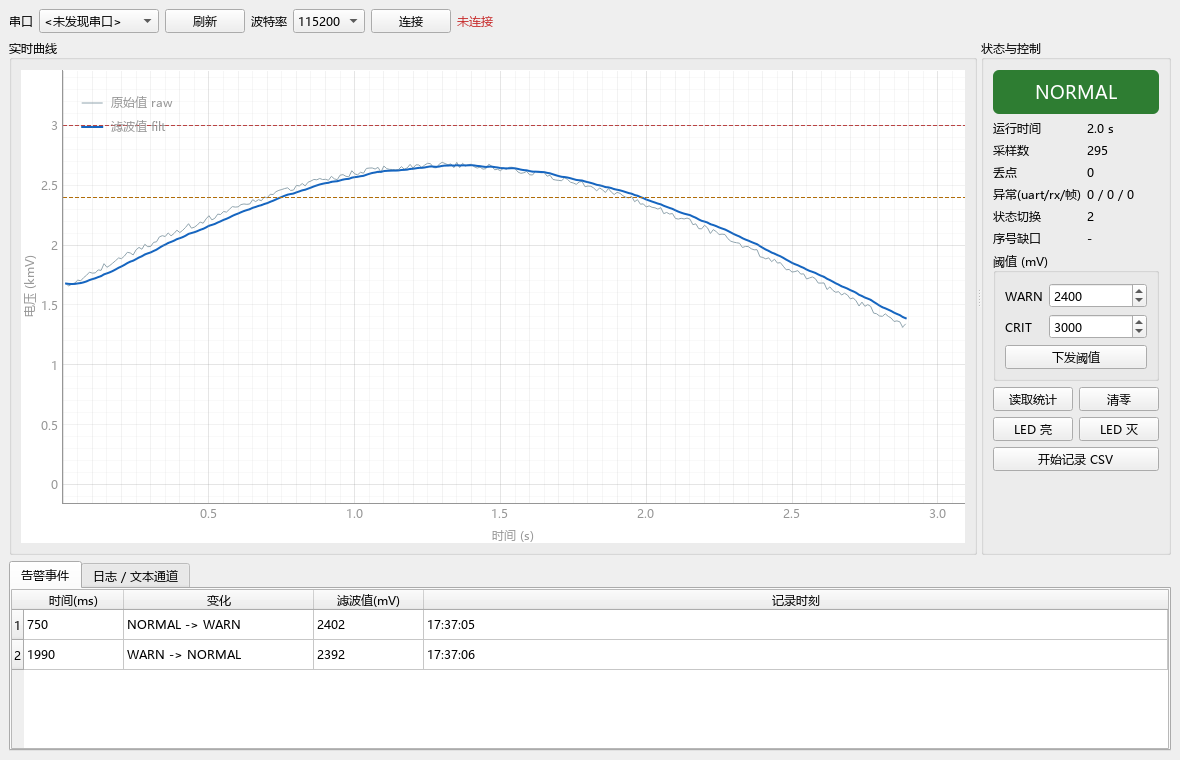
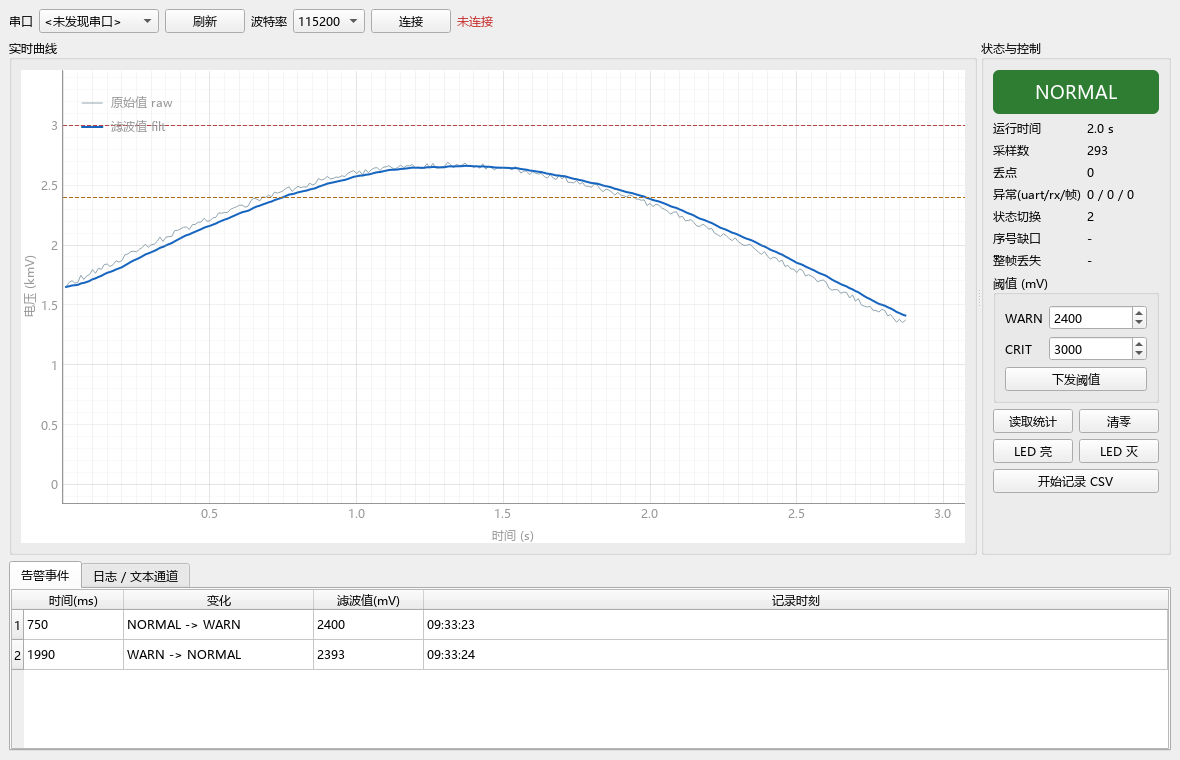
docs: 更正测试报告数字，补充整帧丢失的界面验证
- README/TEST_REPORT：构建尺寸更新为实测值 20576/976/108/4956（原 20548 是
  整帧丢失检测合入前的数字）
- TEST_REPORT：用例数由 14/5/5 更正为 14/4/6（合计仍 24），并新增第 9 节
  记录本轮改动与执行结果
- PROTOCOL：说明 ACK 帧头 SEQ 为设备全局帧序号、不回显命令序号
- gui_smoke：新增"整帧丢失恒为 0"断言，并注入 seq 10→13 与 BOOT 帧做反向
  验证，避免"恒为 0"其实是功能未实现

diff --git a/host/tests/gui_smoke.py b/host/tests/gui_smoke.py
@@ -1,8 +1,11 @@
 """
 界面冒烟测试（离屏运行，不需要显示器，也不需要硬件）。
 
-它真的会创建 QApplication、实例化主窗口、跑演示数据源 3 秒，
-然后断言：采样点收到、曲线缓冲有数据、告警事件表被填充、没有解析错误。
+分两段：
+  1. 真实跑 3 秒演示数据流，断言：采样点收到、曲线有数据、事件表非空、
+     **整帧丢失恒为 0**、没有解析错误；
+  2. 人为注入一次序号跳变 + 一次 BOOT 重启，反向验证"整帧丢失检测"
+     确实在工作——否则"恒为 0"可能只是功能没实现。
 
     python tests/gui_smoke.py
 
@@ -10,6 +13,7 @@
 """
 
 import os
+import struct
 import sys
 
 os.environ.setdefault("QT_QPA_PLATFORM", "offscreen")
@@ -25,8 +29,36 @@ except ImportError as exc:            # pragma: no cover
     sys.exit(0)
 
 import main as M  # noqa: E402
+from protocol import T_BOOT, T_SAMPLE, encode  # noqa: E402,F401
 
 DURATION_MS = 3000
+
+
+def _sample_frame(seq, t_ms=1000):
+    return (T_SAMPLE, seq, struct.pack("<IHHBB", t_ms, 1000, 1000, 0, seq & 0xFF))
+
+
+def check_frame_gap_detection(win):
+    """
+    反向验证整帧丢失检测确实生效。
+
+    注入 seq 10 -> 13（中间少 2 帧），计数应 +2；
+    再注入一帧 BOOT（设备重启、序号归零重来），计数不应增加，且期望值重新对齐。
+    """
+    win.demo_src.stop()
+
+    base = win.frame_gap_count
+    win.expected_frame_seq = 10
+    win._on_frames([_sample_frame(10)])          # 对齐到 10
+    win._on_frames([_sample_frame(13)])          # 跳过 11、12
+    counted = win.frame_gap_count - base
+    ok_gap = (counted == 2)
+
+    base2 = win.frame_gap_count
+    win._on_frames([(T_BOOT, 200, struct.pack("<HHBBB", 0x0500, 100, 2, 8, 1))])
+    ok_boot = (win.frame_gap_count == base2) and (win.expected_frame_seq == 201)
+
+    return ok_gap, ok_boot, counted
 
 
 def run():
@@ -48,12 +80,14 @@ def run():
     points = len(win.t_buf)
     rows = win.table.rowCount()
     gaps = win.gap_count
+    frame_gaps = win.frame_gap_count
     errors = win.parser.errors
 
     print("采样点        : %d" % samples)
     print("曲线缓冲点数  : %d" % points)
     print("告警事件行数  : %d" % rows)
     print("序号缺口      : %d" % gaps)
+    print("整帧丢失      : %d" % frame_gaps)
     print("解析错误      : %d" % errors)
     print("当前级别      : %s" % win.lbl_level.text())
     print("统计面板采样数: %s" % win.lbl_samples.text())
@@ -70,10 +104,22 @@ def run():
         print("FAIL: 告警事件表为空（演示数据应至少触发一次状态变化）")
         ok = False
     if gaps != 0:
-        print("FAIL: 演示流不应有缺口，却统计到 %d" % gaps)
+        print("FAIL: 演示流不应有 seq8 缺口，却统计到 %d" % gaps)
+        ok = False
+    if frame_gaps != 0:
+        print("FAIL: 演示流不应有整帧丢失，却统计到 %d" % frame_gaps)
         ok = False
     if errors != 0:
         print("FAIL: 解析错误 %d" % errors)
+        ok = False
+
+    # ---- 第二段：反向验证检测逻辑本身 ----
+    ok_gap, ok_boot, counted = check_frame_gap_detection(win)
+    print("注入缺口检测  : %s（期望 +2，实得 +%d）" % ("OK" if ok_gap else "FAIL", counted))
+    print("BOOT 重新对齐 : %s" % ("OK" if ok_boot else "FAIL"))
+    if not ok_gap:
+        ok = False
+    if not ok_boot:
         ok = False
 
     print("RESULT:", "PASS" if ok else "FAIL")

diff --git a/docs/TEST_REPORT.md b/docs/TEST_REPORT.md
@@ -2,7 +2,7 @@
 
 > 本文件只记录**真正执行过**的验证。没跑过的一律写在"未验证"里，不做事后美化。
 
-- 日期：2026-10-17
+- 日期：2026-10-17（初版）／2026-10-24 复审更新
 - 环境：Keil MDK5（ARMCC V5.06，`D:\K5\UV4\UV4.exe`）、Python 3.13.12（受管环境）、Windows
 
 ---
@@ -13,14 +13,14 @@
 cd MDK-ARM
 D:\K5\UV4\UV4.exe -b DataAcq.uvprojx -j0 -o build.log     → exit code 0
 
-Program Size: Code=20548  RO-data=976  RW-data=108  ZI-data=4948
+Program Size: Code=20576  RO-data=976  RW-data=108  ZI-data=4956
 "DataAcq\DataAcq.axf" - 0 Error(s), 0 Warning(s).
 ```
 
 | 资源 | 占用 | 容量 | 比例 |
 |---|---|---|---|
-| Flash | 20548 + 976 = 21524 B（21.0 KiB） | 64 KiB | 33% |
-| RAM（静态） | 108 + 4948 = 5056 B（4.9 KiB） | 20 KiB | 25% |
+| Flash | 20576 + 976 = 21552 B（21.0 KiB） | 64 KiB | 33% |
+| RAM（静态） | 108 + 4956 = 5064 B（4.9 KiB） | 20 KiB | 25% |
 
 编译过程中修掉的问题（均为真实出现过的错误）：
 
@@ -121,8 +121,8 @@ RESULT: PASS
 |---|---|
 | 固件编译 | ✅ 已实际执行，0 Error / 0 Warning |
 | 协议编解码单测 | ✅ 已实际执行，14 项通过 |
-| 端到端离线回放 | ✅ 已实际执行，5 项通过（合成 100Hz 流，非真实串口） |
-| 固件/上位机常量一致性 | ✅ 已实际执行，5 项通过（**静态检查**） |
+| 端到端离线回放 | ✅ 已实际执行，4 项通过（合成 100Hz 流，非真实串口） |
+| 固件/上位机常量一致性 | ✅ 已实际执行，6 项通过（**静态检查**） |
 | 上位机脚本语法 | ✅ `py_compile` 全部通过 |
 | 上位机界面实际运行 | ✅ 已离屏实际运行 3 秒，PASS，并自动保存截图 |
 | 上位机串口连接 | ❌ **未测**（需要板子与 USB-TTL） |
@@ -150,4 +150,33 @@ python main.py --demo
 
 :: 4. 接板子
 python main.py
+```
+
+---
+
+## 9. 2026-10-24 复审更新
+
+本轮**只改文档与测试**，固件业务逻辑未改动。
+
+| 项 | 说明 |
+|---|---|
+| 重新编译 | `Code=20576  RO=976  RW=108  ZI=4956`，0 Error 0 Warning。原 README 引用的 20548 是"整帧丢失检测"合入之前的数字，已更正 |
+| 用例数更正 | 原报告写 14 / 5 / 5，实测为 **14 / 4 / 6**（`test_protocol` 14、`test_pipeline` 4、`test_firmware_sync` 6），合计仍是 24 |
+| 界面测试增强 | `tests/gui_smoke.py` 新增三项检查：① 演示流跑 3 秒后"整帧丢失"必须为 0；② 注入 `seq 10 → 13` 后计数必须 +2；③ 注入 `BOOT` 后重新对齐且不计缺口。第 ②③ 项是反向验证——防止"恒为 0"其实是功能没实现 |
+| 协议补充 | `PROTOCOL.md` 4.4 增加说明：ACK 的帧头 `SEQ` 是设备全局帧序号，不回显命令序号；上位机做丢帧判断时不能跳过 ACK |
+
+### 本轮实际执行结果
+
+```
+UV4.exe -r DataAcq.uvprojx
+Program Size: Code=20576  RO-data=976  RW-data=108  ZI-data=4956
+"DataAcq\DataAcq.axf" - 0 Error(s), 0 Warning(s).        warning 计数：0
+
+python -m unittest discover -s tests -v                    Ran 24 tests — OK
+
+QT_QPA_PLATFORM=offscreen python tests/gui_smoke.py
+  采样点 293 / 告警事件 2 / 序号缺口 0 / 整帧丢失 0 / 解析错误 0
+  注入缺口检测  : OK（期望 +2，实得 +2）
+  BOOT 重新对齐 : OK
+  RESULT: PASS
 ```

diff --git a/README.md b/README.md
@@ -5,9 +5,9 @@ STM32F103C8T6 + HAL + Keil MDK。100Hz 定时器触发 ADC+DMA 采样 → 移动
 
 > **验证状态（务必先看）**
 >
-> - 固件：✅ **已实际编译通过**，`0 Error / 0 Warning`，Code 20548B / RO 976B / RW 108B / ZI 4948B
+> - 固件：✅ **已实际编译通过**，`0 Error / 0 Warning`，Code 20576B / RO 976B / RW 108B / ZI 4956B
 > - 协议层单测：✅ **24 项全部通过**（`host/tests/`，含固件常量一致性检查）
-> - 上位机界面：✅ **已离屏实际运行 3 秒并通过**，截图见 `docs/gui_demo.png`
+> - 上位机界面：✅ **已离屏实际运行 3 秒并通过**（含“整帧丢失”恒为 0 的断言 + 注入缺口的反向验证），截图见 `docs/gui_demo.png`
 > - **上板实测：❌ 完全没有做过。** 本文所有功能描述都是"设计预期"，不是实测结论。
 
 ---
@@ -78,7 +78,7 @@ D:\K5\UV4\UV4.exe -b DataAcq.uvprojx -j0 -o build.log
 期望输出：
 
 ```
-Program Size: Code=20548  RO-data=976  RW-data=108  ZI-data=4948
+Program Size: Code=20576  RO-data=976  RW-data=108  ZI-data=4956
 "DataAcq\DataAcq.axf" - 0 Error(s), 0 Warning(s).
 ```
 
@@ -163,7 +163,7 @@ CRC 只能发现内容被改坏，发现不了整帧丢失；SEQ 不连续才能
 | 固件编译                 | ✅ 已实际编译通过（0 Error / 0 Warning）                     |
 | 协议层编解码               | ✅ 已用 24 项单测验证（CRC 标准向量、分包、坏 CRC、超长 LEN、文本混流、端到端回放） |
 | 固件与上位机协议一致性          | ⚠ 两端 `struct` 长度已对齐并各有单测，但**尚未做过真实联调**            |
-| 上位机界面                | ✅ 已离屏实际运行并断言（3 秒 295 点、0 缺口、0 解析错误）；未接真实串口         |
+| 上位机界面                | ✅ 已离屏实际运行并断言（3 秒约 290 点、整帧丢失 0、解析错误 0）；另注入一次序号跳变验证检测确实生效；未接真实串口 |
 | ADC 实际精度 / 100Hz 是否准 | ❌ **必须上板**（示波器或逻辑分析仪看 PA9 / 采样点间隔）                 |
 | DMA 收发是否真的不丢数据       | ❌ **必须上板**（长跑 + 序号缺口统计）                            |
 | 告警滞回手感               | ❌ **必须上板**                                         |

diff --git a/docs/PROTOCOL.md b/docs/PROTOCOL.md
@@ -34,7 +34,7 @@
 | `0xAA 0x55` | 帧头。用两字节而不是一字节，是为了降低噪声被误判成帧头的概率 |
 | `TYPE` | 消息类型，见第 3 节 |
 | `LEN` | 载荷字节数，0 ≤ LEN ≤ 40 |
-| `SEQ` | 帧序号，逐帧 +1，溢出回绕。上位机用它发现"整帧丢失" |
+| `SEQ` | **设备全局帧序号**：所有帧（SAMPLE/EVENT/STAT/ACK/BOOT）共用一个计数器，逐帧 +1，溢出回绕。上位机用它发现"整帧丢失"；换向命令的序号与它无关 |
 | `PAYLOAD` | 载荷，内容由 TYPE 决定 |
 | `CRC16` | CRC-16/CCITT-FALSE，覆盖 **TYPE + LEN + SEQ + PAYLOAD**（不含帧头和 CRC 自身） |
 
@@ -118,6 +118,10 @@ SEQ 不连续才能暴露后者。两者互补，缺一不可。
 |---|---|---|
 | 0 | `req_type` | 被应答的命令 TYPE |
 | 1 | `result` | 0=OK 1=参数错误 2=未知命令 |
+
+> **关于帧头 SEQ**：ACK 的帧头 `SEQ` 取的是**设备全局帧序号**（与 SAMPLE/STAT 共用同一个逐帧 +1 的计数器），
+> **不回显**被应答命令自身的序号。载荷里的 `req_type` 只说明"应答的是哪条命令"。
+> 因此上位机做丢帧判断时，必须把 ACK 也纳入序号连续性检查，不能把它当"与序号无关"的帧跳过。
 
 ### 4.5 BOOT (0x85) — 7 字节
 
